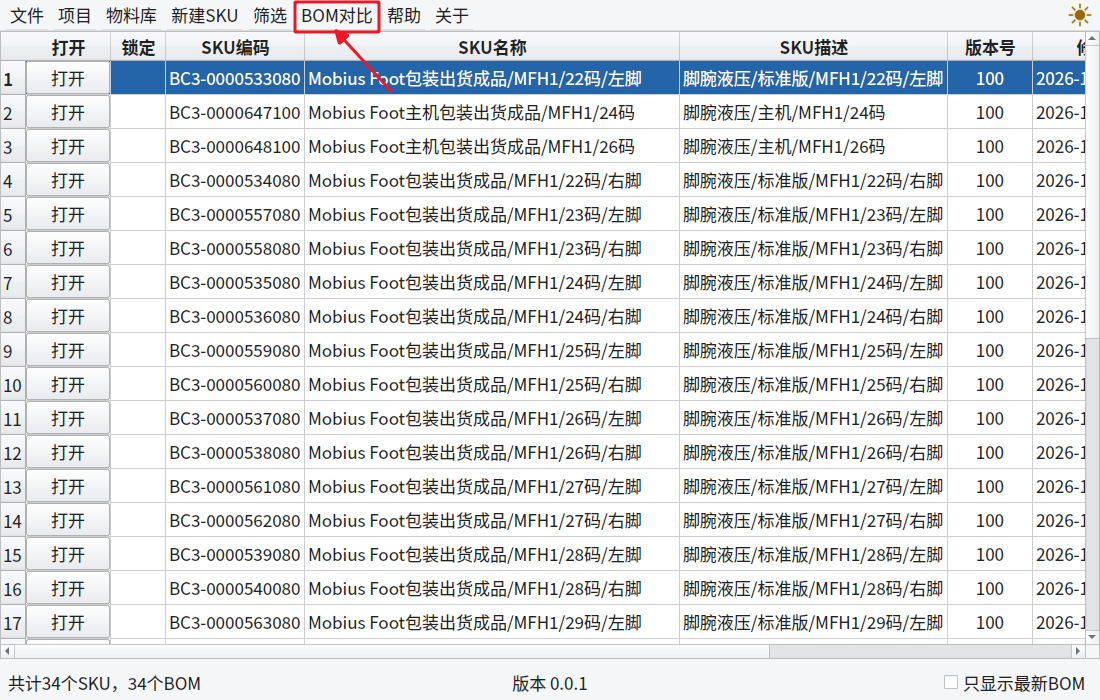
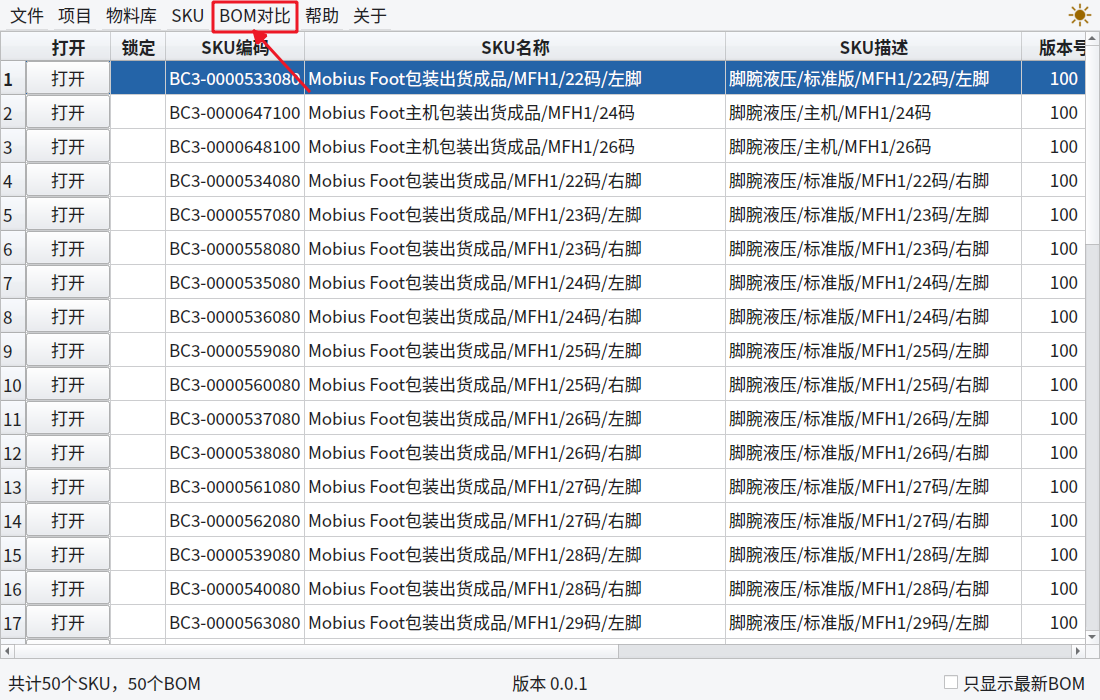
feat(sku): 集中SKU菜单并增加带路径记忆的SKU清单导出
- 将新建SKU和筛选收入SKU菜单，筛选更名SKU筛选，保留Ctrl+N
- 增加导出SKU清单，共用资料库SKU工作表写入与格式化函数
- 默认项目代号 项目名称 SKU清单.xlsx，成功后记忆目录，取消/失败安全处理
- 覆盖菜单、文件名、目录记忆及工作表一致性回归；更新帮助步骤和实际菜单截图
- 更新规格、审计与记忆，执行全量测试及AppImage打包冒烟

diff --git a/src/ui/main_window.py b/src/ui/main_window.py
@@ -407,12 +407,13 @@ class MainWindow(ProjectManagement,QMainWindow):
   if getattr(self,'_compare_dialog',None):self._compare_dialog.close()
   WindowRefreshBus.unsubscribe(self.on_data_change); super().closeEvent(event)
  def build(self):
-  bar=self.menuBar(); fm=bar.addMenu('文件'); a=fm.addAction('选择SQLite数据库'); a.triggered.connect(self.select_database); a=fm.addAction('导出资料库'); a.triggered.connect(self.export_database); pm=bar.addMenu('项目'); self.setup_projects(fm,pm); a=pm.addAction('修改项目信息'); a.triggered.connect(self.edit_project); a=bar.addAction('物料库'); a.triggered.connect(self.show_materials); a=bar.addAction('新建SKU'); a.setShortcut('Ctrl+N');a.setShortcutContext(Qt.WindowShortcut); a.triggered.connect(self.new_sku);
+  bar=self.menuBar(); fm=bar.addMenu('文件'); a=fm.addAction('选择SQLite数据库'); a.triggered.connect(self.select_database); a=fm.addAction('导出资料库'); a.triggered.connect(self.export_database); pm=bar.addMenu('项目'); self.setup_projects(fm,pm); a=pm.addAction('修改项目信息'); a.triggered.connect(self.edit_project); a=bar.addAction('物料库'); a.triggered.connect(self.show_materials); self.sku_menu=bar.addMenu('SKU'); a=self.sku_menu.addAction('新建SKU'); a.setShortcut('Ctrl+N');a.setShortcutContext(Qt.WindowShortcut); a.triggered.connect(self.new_sku);
   self.table=QTableWidget(); self.table.setColumnCount(8); self.table.setHorizontalHeaderLabels(['打开','SKU编码','SKU名称','SKU描述','版本号','修改日期时间','ID','锁定']); self.table.horizontalHeader().moveSection(7,1); self.table.hideColumn(6); self.table.setSelectionBehavior(QAbstractItemView.SelectRows); self.table.setSelectionMode(QAbstractItemView.ExtendedSelection); self.table.setWordWrap(True); self.table.cellDoubleClicked.connect(self.open_bom); self.table.setContextMenuPolicy(Qt.CustomContextMenu); self.table.customContextMenuRequested.connect(self.sku_context_menu)
   self.table._fixed_column_widths={7:max(44,self.table.horizontalHeader().minimumSectionSize(),self.table.fontMetrics().horizontalAdvance('锁定')+20)};self.table.setItemDelegateForColumn(7,CenteredLockDelegate(self.table))
   self._sku_sort=None;self._sku_filters={}
   self._description_hover=VersionDescriptionHover(self.table)
-  filter_action=bar.addAction('筛选');filter_action.triggered.connect(self.filter_skus)
+  filter_action=self.sku_menu.addAction('SKU筛选');filter_action.triggered.connect(self.filter_skus)
+  self.sku_menu.addSeparator();self.sku_menu.addAction('导出SKU清单',self.export_sku_list)
   compare_action=bar.addAction('BOM对比');compare_action.triggered.connect(self.compare_boms)
   help_action=bar.addAction('帮助'); help_action.triggered.connect(self.show_help)
   a=bar.addAction('关于'); a.triggered.connect(self.show_about)
@@ -464,7 +465,7 @@ class MainWindow(ProjectManagement,QMainWindow):
   def update_actions(menu):
    for action in menu.actions():
     if action.menu():update_actions(action.menu())
-    elif action.text() in ('选择SQLite数据库','导出资料库','修改项目信息','物料库','新建SKU','筛选','BOM对比'):action.setEnabled(available)
+    elif action.text() in ('选择SQLite数据库','导出资料库','修改项目信息','物料库','新建SKU','SKU筛选','导出SKU清单','BOM对比'):action.setEnabled(available)
   update_actions(self.menuBar());self.table.setEnabled(available);self.latest_bom_only.setEnabled(available)
   if not available:
    self.table.setRowCount(0);self.setWindowTitle('BOM管理系统');self.count_label.setText('未打开项目，请通过“项目”菜单打开历史项目、新建或导入项目');return
@@ -560,6 +561,14 @@ class MainWindow(ProjectManagement,QMainWindow):
    QMessageBox.information(self,'数据库未切换','当前已经在使用该数据库：\n'+str(selected)); return
   if self.switch_project(selected,create=not existed):
    QMessageBox.information(self,'数据库已切换',('已打开已有数据库' if existed else '已创建并打开新数据库')+'：\n'+str(selected))
+ def export_sku_list(self):
+  if self.svc.db is None:return
+  project=self.svc.project();name=' '.join(part for part in (project['project_code'],project['project_name'],'SKU清单') if part)
+  path=QFileDialog.getSaveFileName(self,'导出SKU清单',export_start_path(export_filename(name)),'Excel (*.xlsx)')[0]
+  if not path:return
+  try:
+   self.svc.export_sku_list(path);remember_export_path(path);QMessageBox.information(self,'完成','SKU清单导出成功')
+  except Exception as error:show_operation_error(self,'导出失败',error)
  def export_database(self):
   p=QFileDialog.getSaveFileName(self,'导出资料库',export_start_path(export_filename((self.svc.project()['project_code']+' '+self.svc.project()['project_name']+' 资料库').strip())),'Excel (*.xlsx)')[0]
   if p:remember_export_path(p); self.svc.export_database(p); QMessageBox.information(self,'完成','资料库导出成功')

diff --git a/src/ui/help_guides.py b/src/ui/help_guides.py
@@ -69,7 +69,7 @@ GUIDES=[
   step('material_delete_menu','点击“删除物料”','在物料库右键待删除行。按钮灰色表示仍被使用，应先反查并处理引用，不要直接操作数据库绕过校验。'),
   step('material_delete_confirm','确认删除物料资料','点击是才执行；失败会说明约束原因。成功后清单刷新。此操作没有BOM编辑缓存的“取消删除”，请事先确认备份。')]),
  dict(title='SKU：新建SKU BOM',before='先在物料库建立目标物料。已有BOM结构或已作为SKU的物料不可用于新建SKU。',steps=[
-  step('sku_new','点击“新建SKU”','在SKU清单菜单栏点击新建SKU，或按Ctrl+N。结果：打开物料筛选选择框。'),
+  step('sku_new','点击“新建SKU”','在SKU清单菜单栏打开“SKU”菜单，点击“新建SKU”，或按Ctrl+N。结果：打开物料筛选选择框。'),
   step('sku_input','输入物料编码或名称','在输入框键入基础编码、版本号或名称的一部分。候选内容实时筛选；任意输入文字本身不代表选中了物料。'),
   step('sku_pick','选定一个可用候选物料','在下拉候选中选择未置灰的条目；也可连续按↑/↓移动，再按回车确认。上下键不会改变筛选文字，并自动跳过不可用项。检查编码和名称；不可用项旁会说明原因。输入回车也可确认预选/首个候选。'),
   step('sku_ok','点击“OK/确定”','成功后SKU清单新增对应行，默认历史版本为100。若仍提示不可用，请重新选择有效物料；取消不会新建SKU。')]),
@@ -78,6 +78,10 @@ GUIDES=[
   step('sku_copy','点击“复制BOM”','在右键菜单点击复制BOM，生成独立的BOM历史版本，历史版本号递增。操作完成后检查清单中的新版本行；不是SKU物料编码自动升版。'),
   step('sku_lock','点击“锁定SKU”','保存或放弃该BOM的草稿后，在右键菜单选择锁定SKU。锁定列出现锁图标，再次打开进入浏览模式。'),
   step('sku_unlock','点击“取消锁定”','对已锁定的SKU再次右键，选择取消锁定。解锁后才可编辑；受联动影响的其他锁定BOM仍需分别处理。')]),
+ dict(title='SKU：导出SKU清单',before='需先打开项目。此功能与导出资料库中的SKU清单一致，导出全部SKU及历史版本，不受当前界面的筛选隐藏影响。',steps=[
+  step('sku_list_export','点击“SKU → 导出SKU清单”','SKU菜单集中提供新建SKU、SKU筛选和导出SKU清单。选择导出SKU清单只生成清单工作表，不包含物料库或各BOM结构。'),
+  step('sku_list_filename','确认目录和文件名','默认名称为“项目代号 项目名称 SKU清单.xlsx”。优先打开上次成功导出的目录；尚无有效记录时打开软件所在目录。可以修改名称或目录。'),
+  step('sku_list_save','点击“保存”完成导出','表格包含序号、SKU编码、SKU名称、SKU描述、版本号及修改日期时间，黑色线框、自动列宽不超过60字符、自动换行，序号居中。成功后记忆目录；取消不会导出，失败时按提示调整路径后重试。')]),
  dict(title='BOM删除：删除SKU历史版本',before='本教程删除SKU列表中的BOM记录；仅删除BOM中的一个节点请看“BOM删除：删除树节点”。锁定SKU要先解锁。',steps=[
   step('delete_sku_menu','点击“删除SKU”','在SKU清单单选要删除的历史版本，右键选择删除SKU。多选时单项删除不可用，先核对编码及历史版本。'),
   step('delete_sku_confirm','在确认框选择“是”','确认后删除目标SKU记录及其所属历史信息。其他仍引用的物料/结构不会随意删除；此操作不是从物料库删除根物料。取消则保持原状。')]),

diff --git a/tests/test_sku_list_export.py b/tests/test_sku_list_export.py
@@ -1,0 +1,45 @@
+import os,sys,tempfile,unittest
+os.environ['QT_QPA_PLATFORM']='offscreen'
+from pathlib import Path
+sys.path.insert(0,str(Path(__file__).parents[1]/'src'))
+from unittest.mock import patch
+from PyQt5.QtWidgets import QApplication
+from PyQt5.QtCore import QSettings
+from openpyxl import load_workbook
+from database.database import Database
+from services.services import Services
+from ui.main_window import MainWindow
+
+class SkuListExportTests(unittest.TestCase):
+ @classmethod
+ def setUpClass(cls):cls.app=QApplication.instance() or QApplication([])
+ def test_export_reuses_database_sheet_and_remembers_directory(self):
+  with tempfile.TemporaryDirectory() as tmp:
+   db=Database(str(Path(tmp)/'db'));s=Services(db)
+   mid=s.create_material(dict(base_code='ABC',version='100',name='SKU名称',description='较长描述'*40,unit='pcs'));s.create_sku(mid)
+   db.conn.execute("UPDATE project SET project_code='P01',project_name='项目名称'");db.conn.commit();w=MainWindow(s)
+   settings=QSettings('Biong','BOMManager');old=settings.value('export_directory');settings.remove('export_directory')
+   try:
+    self.assertEqual([a.text() for a in w.sku_menu.actions() if not a.isSeparator()],['新建SKU','SKU筛选','导出SKU清单'])
+    self.assertEqual(w.sku_menu.actions()[0].shortcut().toString(),'Ctrl+N')
+    target=Path(tmp)/'chosen.xlsx'
+    with patch('ui.main_window.QFileDialog.getSaveFileName',return_value=(str(target),'')) as choose,patch('ui.main_window.QMessageBox.information'):
+     w.export_sku_list()
+     self.assertEqual(Path(choose.call_args.args[2]).name,'P01 项目名称 SKU清单.xlsx')
+    with patch('ui.main_window.QFileDialog.getSaveFileName',return_value=('','')) as choose:
+     w.export_sku_list();self.assertEqual(Path(choose.call_args.args[2]).parent,Path(tmp))
+    whole=Path(tmp)/'all.xlsx';s.export_database(whole);a=load_workbook(target);b=load_workbook(whole)
+    try:
+     self.assertEqual(a.sheetnames,['SKU清单']);self.assertEqual(list(a.active.values),list(b['SKU清单'].values))
+     self.assertEqual(a.active['A2'].alignment.horizontal,'center')
+     for row in a.active:
+      for cell in row:
+       self.assertEqual(cell.border.left.style,'thin');self.assertTrue(cell.alignment.wrap_text)
+     for col in a.active.column_dimensions.values():self.assertLessEqual(col.width,60)
+    finally:a.close();b.close()
+    with patch.object(s,'export_sku_list',side_effect=OSError('不可写')),patch('ui.main_window.QFileDialog.getSaveFileName',return_value=(str(Path(tmp)/'bad.xlsx'),'')),patch('ui.main_window.show_operation_error') as error:
+     w.export_sku_list();error.assert_called_once()
+   finally:
+    if old is None:settings.remove('export_directory')
+    else:settings.setValue('export_directory',old)
+    w.close();db.close()

diff --git a/src/ui/help_dialog.py b/src/ui/help_dialog.py
@@ -47,7 +47,7 @@ class HelpDialog(QDialog):
 
     def _feature_page(self):
         page = QWidget(); layout = QVBoxLayout(page)
-        layout.addWidget(self._section('SKU清单窗口：项目总览与批量入口', '这里显示当前项目全部SKU及其历史版本。点击表头可排序，选择一行后双击打开BOM；Ctrl/Shift可多选，再右键对多个SKU执行浏览、编辑、导出或锁定。锁定列显示小锁，版本号加粗表示存在变更描述；底部同时显示“共计N个SKU，M个BOM”。', self._image_widget('sku_overview', '实际截图：SKU清单窗口')))
+        layout.addWidget(self._section('SKU清单窗口：项目总览与批量入口', '这里显示当前项目全部SKU及其历史版本。“SKU”菜单包含新建SKU、SKU筛选、导出SKU清单；清单导出包含项目全部SKU历史版本，复用资料库表格格式并记忆导出目录。点击表头可排序，选择一行后双击打开BOM；Ctrl/Shift可多选，再右键对多个SKU执行浏览、编辑、导出或锁定。锁定列显示小锁，版本号加粗表示存在变更描述；底部同时显示“共计N个SKU，M个BOM”。', self._image_widget('sku_overview', '实际截图：SKU清单窗口')))
         layout.addWidget(self._section('物料库窗口：公共物料资料', '物料库维护基础编码、版本号、名称、规格、单位、等级、制造商、MPN和M/P，并显示BOM状态、呆滞状态及各SKU用量。菜单按钮可执行导入、导出、查找、筛选；右键可编辑、复制、删除、反查、版本更新、编辑BOM和新增替代料。', self._image_widget('material_library', '实际截图：物料库窗口')))
         layout.addWidget(self._section('BOM编辑窗口：树状结构与属性', '左侧是递归BOM树，右侧是当前节点属性和替代料。根节点显示SKU或选中的公共物料；树节点左键切换右侧资料，右键按分组提供新增、复制剪切粘贴、替换、版本更新、替代料、颜色、反查和导出。保存前变更有颜色标识，保存后恢复默认。', self._image_widget('bom_window', '实际截图：BOM编辑/浏览窗口')))
         layout.addWidget(self._section('导入、导出、对比和主题', '物料/BOM导入均支持Sheet选择、表头映射、必填项检查、进度条和结果明细；BOM对比支持两个SKU历史版本或外部Excel，并同步标记新增、删除、修改、换料和交换。右上角太阳/月亮按钮切换主题，窗口尺寸和路径自动记忆。', self._image_widget('menu_theme', '实际截图：菜单和主题按钮')))

diff --git a/tools/help_action_screenshots.py b/tools/help_action_screenshots.py
@@ -81,7 +81,10 @@ def generate(out,main,materials,bom,svc):
     for i,field in enumerate(MATERIAL_IMPORT_HEADERS):
         mapping.mapping_table.scrollToItem(mapping.mapping_table.item(0,i),QAbstractItemView.PositionAtCenter);QApplication.processEvents();snap('mapping_'+str(i),mapping,mapping.combos[field])
     snap('mapping_preview',mapping,mapping.preview);ok('mapping_ok',mapping)
-    bar('sku_new',main,'新建SKU');sku=dialog(NewSkuDialog(svc,main))
+    shown(main.sku_menu);snap('sku_list_export',main.sku_menu,rect=main.sku_menu.actionGeometry(action(main.sku_menu,'导出SKU清单')));main.sku_menu.hide()
+    project_info=svc.project();f=file_dialog('导出SKU清单',True,(project_info['project_code']+' '+project_info['project_name']+' SKU清单.xlsx').strip())
+    snap('sku_list_filename',f,f.findChild(QLineEdit,'fileNameEdit'));snap('sku_list_save',f,save_button(f));f.hide()
+    shown(main.sku_menu);snap('sku_new',main.sku_menu,rect=main.sku_menu.actionGeometry(action(main.sku_menu,'新建SKU')));main.sku_menu.hide();sku=dialog(NewSkuDialog(svc,main))
     candidate=next((i for i in range(sku.model.rowCount()) if sku.model.item(i).isEnabled()),None)
     if candidate is None:raise RuntimeError('截图数据库没有可用于新建SKU的物料')
     sku.combo.setCurrentIndex(candidate);snap('sku_input',sku,sku.combo)

diff --git a/src/services/services.py b/src/services/services.py
@@ -761,10 +761,16 @@ class Services:
    if progress_callback: progress_callback(total,total)
    return ok,fail
   finally:wb.close()
- def export_database(self,path):
-  wb=Workbook(); ws=wb.active; ws.title='SKU清单'; ws.append(['序号','SKU编码','SKU名称','SKU描述','版本号','修改日期时间'])
-  for n,r in enumerate(self.skus(),1): ws.append([n,r['base_code']+r['version'],r['name'],r['description'],r['mirror_version'],r['updated_at']])
+ def write_sku_list_sheet(self,ws):
+  ws.title='SKU清单';ws.append(['序号','SKU编码','SKU名称','SKU描述','版本号','修改日期时间'])
+  for n,r in enumerate(self.skus(),1):ws.append([n,r['base_code']+r['version'],r['name'],r['description'],r['mirror_version'],r['updated_at']])
   self.format_export_sheet(ws,{'序号'})
+ def export_sku_list(self,path):
+  wb=Workbook()
+  try:self.write_sku_list_sheet(wb.active);wb.save(path)
+  finally:wb.close()
+ def export_database(self,path):
+  wb=Workbook();self.write_sku_list_sheet(wb.active)
   self.write_material_sheet(wb.create_sheet('物料库'))
   self.write_change_sheet(wb.create_sheet('变更记录'),list(self.db.conn.execute("SELECT * FROM change_logs WHERE object_type='material' ORDER BY id")))
   for r in self.skus():

diff --git a/tests/test_first_launch_empty_project.py b/tests/test_first_launch_empty_project.py
@@ -37,7 +37,7 @@ class FirstLaunchTests(unittest.TestCase):
   self.assertEqual(list(self.base.iterdir()),[self.config.path]);self.assertEqual(w.projects.entries(),[])
   self.assertIsNone(w.svc.db);self.assertEqual(w.table.rowCount(),0);self.assertIn('未打开项目',w.count_label.text())
   actions=self.actions(w.menuBar())
-  for title in ('物料库','新建SKU','导出资料库','修改项目信息','BOM对比','筛选','选择SQLite数据库'):self.assertFalse(actions[title].isEnabled())
+  for title in ('物料库','新建SKU','导出资料库','修改项目信息','BOM对比','SKU筛选','导出SKU清单','选择SQLite数据库'):self.assertFalse(actions[title].isEnabled())
   for title in ('新增项目','导入项目','导入项目数据库','关于'):self.assertTrue(actions[title].isEnabled())
   with patch.object(main,'choose_database_recovery') as recovery:self.assertIsNone(main.startup_database(self.config,self.config.load()));recovery.assert_not_called()
  def test_new_project_creates_only_selected_database_and_enables_actions(self):

diff --git a/tests/test_sku_footer.py b/tests/test_sku_footer.py
@@ -17,7 +17,7 @@ class SkuFooterTests(unittest.TestCase):
    try:
     self.assertEqual(w.count_label.text(),'共计1个SKU，1个BOM');self.assertEqual(w.version_label.text(),'版本 '+w.version)
     footer=w.count_label.parentWidget();self.assertIs(footer,w.version_label.parentWidget());self.assertEqual(footer.layout().count(),3);self.assertIs(footer,w.latest_bom_only.parentWidget());self.assertIs(footer.layout().itemAtPosition(0,2).widget(),w.latest_bom_only)
-    self.assertEqual([a.text() for a in w.menuBar().actions()],['文件','项目','物料库','新建SKU','筛选','BOM对比','帮助','关于'])
+    self.assertEqual([a.text() for a in w.menuBar().actions()],['文件','项目','物料库','SKU','BOM对比','帮助','关于'])
     self.assertFalse(hasattr(w,'power_label'))
     w.show()
     for width in (800,1100,1600):
